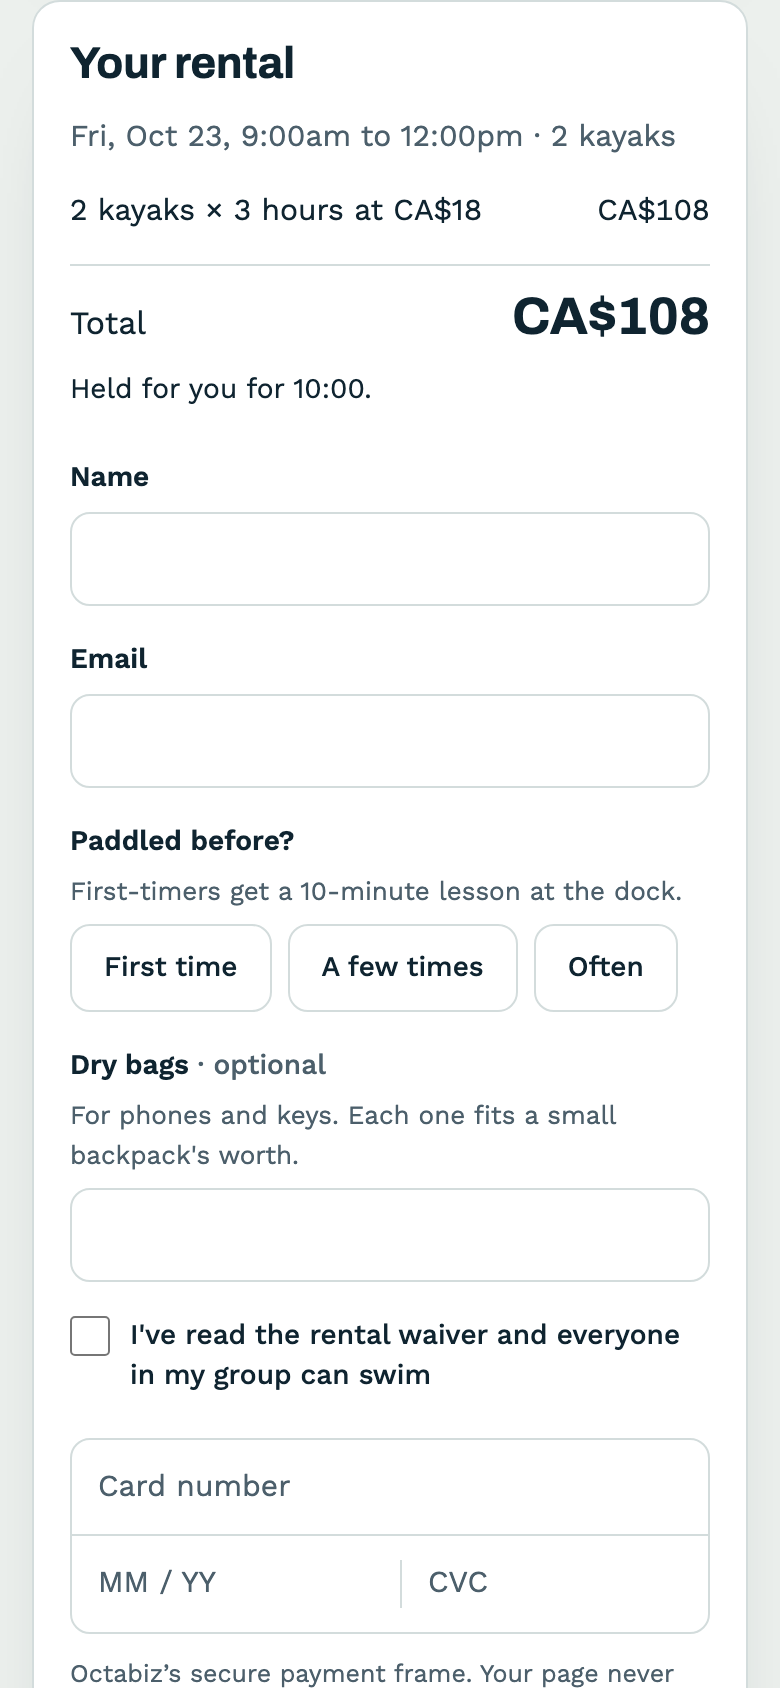
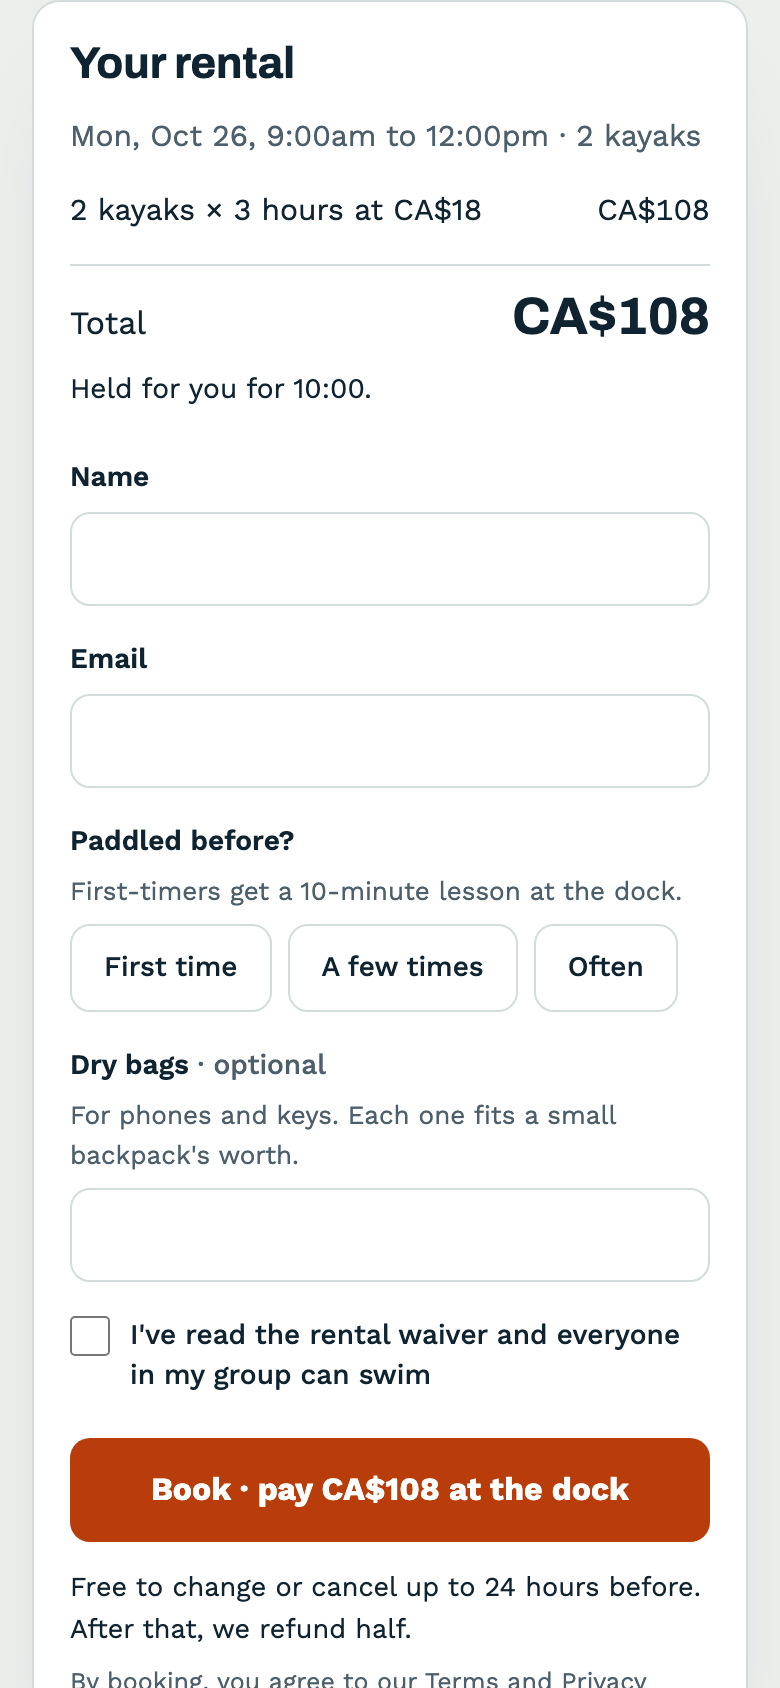
Bayline pays at the dock (kinds paid when booking wait for the payment frame); rental kinds are accepted

Changed region(s): [[0.0923, 0.8318, 0.9231, 1.0], [0.0923, 0.0616, 0.8923, 0.0924]]

diff --git a/examples/booking-kind-bayline-rentals/booking/rental.js b/examples/booking-kind-bayline-rentals/booking/rental.js
@@ -161,7 +161,7 @@
     });
   }
   function setBookLabel() {
-    if (held && quoted) book.textContent = (quoted.upfront ? 'Pay ' + quoted.totalText + ' and book' : 'Book it');
+    if (held && quoted) book.textContent = quoted.upfront ? 'Pay ' + quoted.totalText + ' and book' : 'Book · pay ' + quoted.totalText + ' at the dock';
   }
   document.querySelector('[data-bk="fields"]').addEventListener('input', function (e) {
     if (e.target.name === 'dry_bags') requote();

diff --git a/examples/booking-kind-bayline-rentals/README.md b/examples/booking-kind-bayline-rentals/README.md
@@ -10,11 +10,11 @@ The kind is built from blocks the booking engine already checks:
 
 The business fills in four settings. Customers book on a page made for renting.
 
-> Uses `serviceKinds`, which the developer portal doesn't accept yet (custom fields it does). Everything runs in `tools/preview.mjs` and passes `validate.mjs`. See [docs/booking-themes.md](../../docs/booking-themes.md#new-service-kinds-preview).
+> Uses `serviceKinds` and custom fields, which the developer portal accepts. Businesses see kind pages on dev.octabiz.ai for now. Customers pay at the dock: a kind paid when booking waits for the payment frame. See [docs/booking-themes.md](../../docs/booking-themes.md#new-service-kinds-preview).
 
 <img alt="Bayline at 1440px: title, price per kayak per hour, a drawing of two kayaks by a dock, and the planner below" src="screenshots/page.png">
 
-<img alt="Planning a rental: Friday, 3 hours, 2 kayaks, 10:00am picked; the summary shows 2 kayaks × 3 hours at CA$18 = CA$108, 2 dry bags CA$8, total CA$116, and a Pay CA$116 and book button" src="screenshots/plan-and-price.png">
+<img alt="Planning a rental: Monday, 3 hours, 2 kayaks, 10:00am picked; the summary shows 2 kayaks × 3 hours at CA$18 = CA$108, 2 dry bags CA$8, total CA$116, and a Book · pay CA$116 at the dock button" src="screenshots/plan-and-price.png">
 
 | Not enough left | What the business fills in | Phone |
 | --- | --- | --- |
@@ -28,7 +28,7 @@ The business fills in four settings. Customers book on a page made for renting.
   "name": "Equipment rental",
   "time":     { "mode": "range", "minMinutes": 120, "maxMinutes": 480, "stepMinutes": 60 },
   "capacity": { "mode": "units", "unitLabel": "kayak", "unitLabelPlural": "kayaks" },
-  "pricing":  { "per": ["unit", "hour"], "rate": "settings.hourly_rate", "upfront": true,
+  "pricing":  { "per": ["unit", "hour"], "rate": "settings.hourly_rate", "upfront": false,
                 "addOns": [{ "field": "dry_bags", "each": "settings.dry_bag_price", "label": "Dry bags" }] },
   "settings": [ "units_total → capacity.total", "max_per_booking → capacity.maxPerBooking", "hourly_rate", "dry_bag_price" ],
   "page": "booking/rental.html"

diff --git a/docs/booking-themes.md b/docs/booking-themes.md
@@ -15,7 +15,8 @@ There are two levels, and three extras you can add to either:
 > **Where each extra stands.**
 > * **Custom fields** are live. A business can turn your questions off, or make them optional, per service.
 > * **`book` and your own `service` page** are accepted on upload. For now they show only on dev.octabiz.ai, while their security review finishes. Until the payment frame ships, a service paid when booking, or a group session, uses the built-in page.
-> * **`serviceKinds`** aren't accepted yet. `preview.mjs` and `validate.mjs` support all three today.
+> * **`serviceKinds`** are accepted when `capacity.mode` is `units` (rentals), and show on dev.octabiz.ai for now. A kind paid when booking waits for the payment frame. `one` and `seats` kinds come later.
+> `preview.mjs` and `validate.mjs` support all of it today.
 
 The full contract also lives at [octabiz.ai/developers/docs/booking-themes](https://octabiz.ai/developers/docs/booking-themes), and you can try any `theme.json` in the [theme playground](https://octabiz.ai/developers/booking-theme-playground).
 
